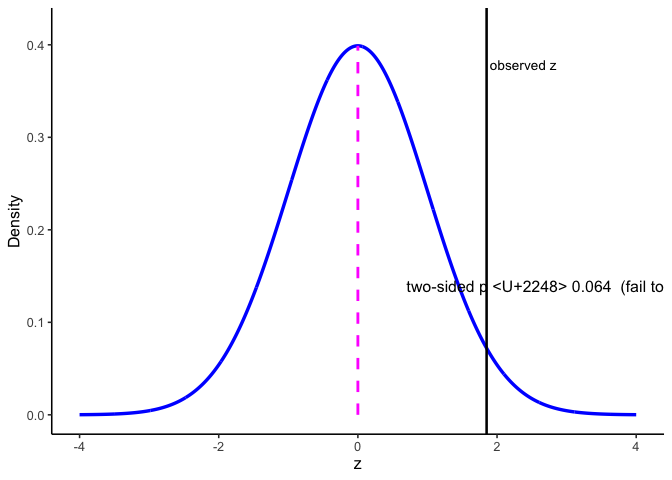
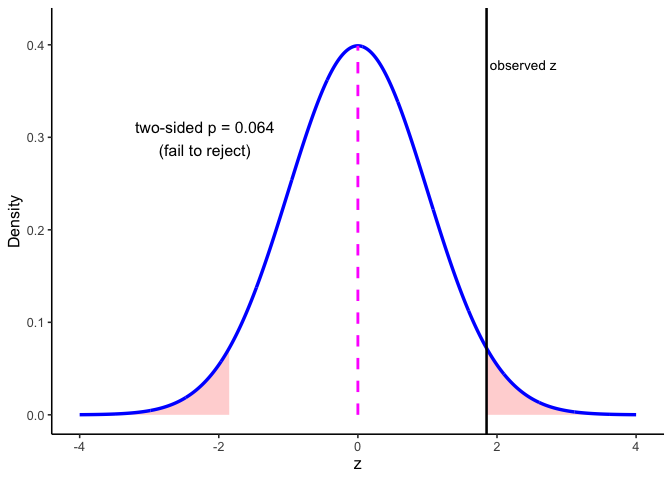
Ch4: fix p-value lens glyph and label overlap, shade the p-value tails

diff --git a/docs/04-Foundation_Inference.html b/docs/04-Foundation_Inference.html
@@ -289,7 +289,7 @@ window.Quarto = {
     <div>
     <div class="quarto-title-meta-heading">Modified</div>
     <div class="quarto-title-meta-contents">
-      <p class="date-modified">September 10, 2026</p>
+      <p class="date-modified">September 11, 2026</p>
     </div>
   </div>
     
@@ -630,13 +630,13 @@ Figure&nbsp;4.12: Confidence-interval lens: null (blue), sampling distribution o
 <p>The <span class="math inline">\(p\)</span>-value is the probability, <strong>under</strong> <span class="math inline">\(H_0\)</span>, of obtaining a test statistic <strong>at least as extreme</strong> as the one you observed. In practice, you compute it from your observed statistic using software or a table. Reject if <span class="math inline">\(p&lt;\alpha\)</span>.</p>
 <div class="cell">
 <div class="cell-output-display">
-<div id="fig-pvalue-lens" class="quarto-float quarto-figure quarto-figure-center anchored" alt="A blue standard normal curve centered at zero, marked with a dashed vertical line at the center for the null value and a solid black vertical line further right labeled 'observed z' at about 1.85. Text in the corner reports a two-sided p-value of about 0.064, labeled fail to reject.">
+<div id="fig-pvalue-lens" class="quarto-float quarto-figure quarto-figure-center anchored" alt="A blue standard normal curve centered at zero, marked with a dashed vertical line at the center for the null value and a solid black vertical line further right labeled 'observed z' at about 1.85. The areas beyond plus and minus 1.85 in both tails are shaded red. Text on the left reports a two-sided p-value of 0.064, labeled fail to reject.">
 <figure class="quarto-float quarto-float-fig figure">
 <div aria-describedby="fig-pvalue-lens-caption-0ceaefa1-69ba-4598-a22c-09a6ac19f8ca">
-<img src="04-Foundation_Inference_files/figure-html/fig-pvalue-lens-1.png" class="img-fluid figure-img" style="width:100.0%" alt="A blue standard normal curve centered at zero, marked with a dashed vertical line at the center for the null value and a solid black vertical line further right labeled 'observed z' at about 1.85. Text in the corner reports a two-sided p-value of about 0.064, labeled fail to reject.">
+<img src="04-Foundation_Inference_files/figure-html/fig-pvalue-lens-1.png" class="img-fluid figure-img" style="width:100.0%" alt="A blue standard normal curve centered at zero, marked with a dashed vertical line at the center for the null value and a solid black vertical line further right labeled 'observed z' at about 1.85. The areas beyond plus and minus 1.85 in both tails are shaded red. Text on the left reports a two-sided p-value of 0.064, labeled fail to reject.">
 </div>
 <figcaption class="quarto-float-caption-bottom quarto-float-caption quarto-float-fig" id="fig-pvalue-lens-caption-0ceaefa1-69ba-4598-a22c-09a6ac19f8ca">
-Figure&nbsp;4.13: p-value lens: compute the <span class="math inline">\(p\)</span>-value from the observed statistic (vertical line) under the null.
+Figure&nbsp;4.13: p-value lens: the two-sided <span class="math inline">\(p\)</span>-value is the shaded area beyond the observed statistic (vertical line), in both tails, under the null.
 </figcaption>
 </figure>
 </div>
